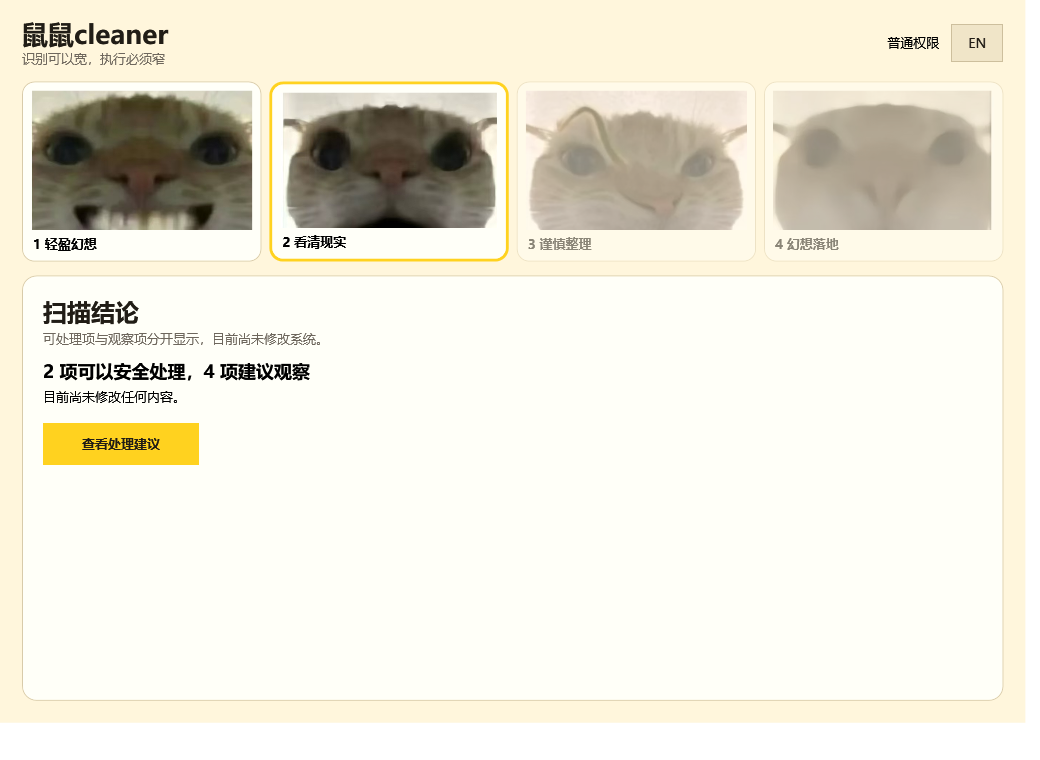
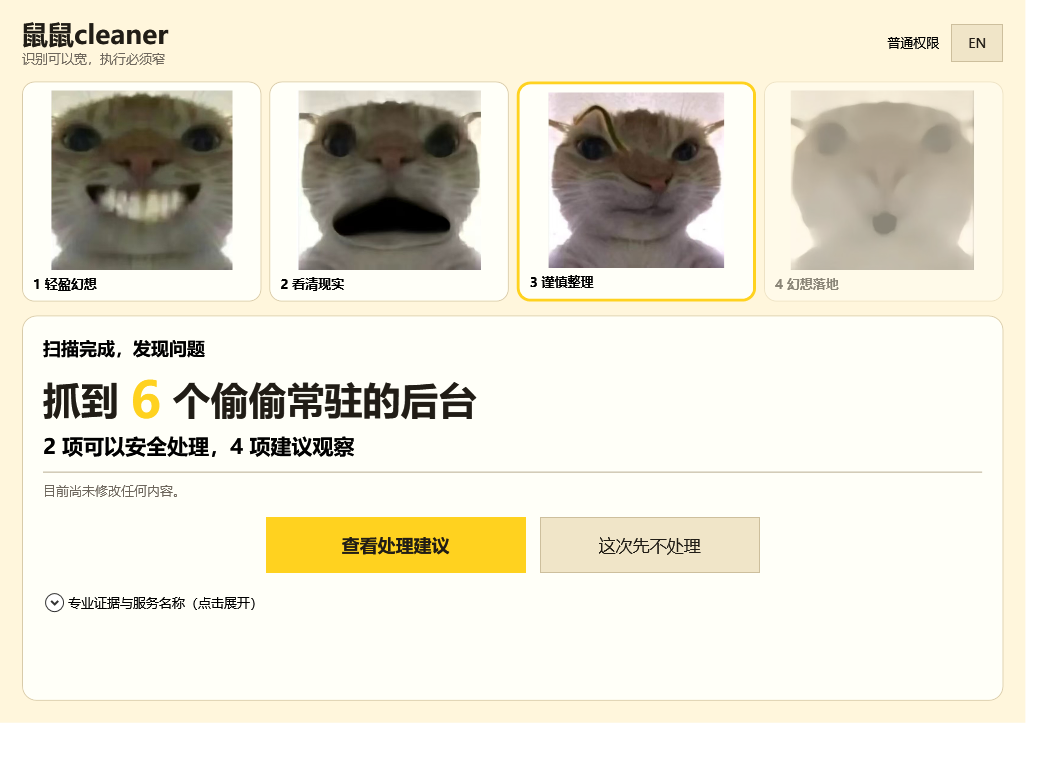
fix: restore complete fantasy results design

diff --git a/src/Gui/MainWindow.xaml b/src/Gui/MainWindow.xaml
@@ -32,7 +32,7 @@
     </Style>
   </Window.Resources>
   <Grid Margin="18">
-    <Grid.RowDefinitions><RowDefinition Height="Auto"/><RowDefinition Height="188"/><RowDefinition Height="*"/></Grid.RowDefinitions>
+    <Grid.RowDefinitions><RowDefinition Height="Auto"/><RowDefinition Height="228"/><RowDefinition Height="*"/></Grid.RowDefinitions>
     <Grid Grid.Row="0" Margin="4,0,4,10">
       <Grid.ColumnDefinitions><ColumnDefinition Width="*"/><ColumnDefinition Width="Auto"/></Grid.ColumnDefinitions>
       <StackPanel><TextBlock x:Name="TitleMain" Text="鼠鼠cleaner" FontSize="26" FontWeight="Bold" Foreground="{StaticResource Ink}"/>
@@ -42,21 +42,38 @@
         <Button x:Name="BtnLang" Content="EN" Style="{StaticResource SecondaryButton}" MinWidth="52" AutomationProperties.Name="切换语言"/>
       </StackPanel>
     </Grid>
-    <UniformGrid Grid.Row="1" Columns="4">
-      <Border x:Name="StageCard1" Style="{StaticResource StageCard}"><Grid><Grid.RowDefinitions><RowDefinition Height="*"/><RowDefinition Height="Auto"/></Grid.RowDefinitions><Image x:Name="ImgStage1" Stretch="UniformToFill" AutomationProperties.Name="轻盈幻想阶段插图"/><TextBlock x:Name="StageLabel1" Grid.Row="1" Text="1 轻盈幻想" FontWeight="Bold" Margin="2,6,2,0"/></Grid></Border>
-      <Border x:Name="StageCard2" Style="{StaticResource StageCard}"><Grid><Grid.RowDefinitions><RowDefinition Height="*"/><RowDefinition Height="Auto"/></Grid.RowDefinitions><Image x:Name="ImgStage2" Stretch="UniformToFill" AutomationProperties.Name="看清现实阶段插图"/><TextBlock x:Name="StageLabel2" Grid.Row="1" Text="2 看清现实" FontWeight="Bold" Margin="2,6,2,0"/></Grid></Border>
-      <Border x:Name="StageCard3" Style="{StaticResource StageCard}"><Grid><Grid.RowDefinitions><RowDefinition Height="*"/><RowDefinition Height="Auto"/></Grid.RowDefinitions><Image x:Name="ImgStage3" Stretch="UniformToFill" AutomationProperties.Name="谨慎整理阶段插图"/><TextBlock x:Name="StageLabel3" Grid.Row="1" Text="3 谨慎整理" FontWeight="Bold" Margin="2,6,2,0"/></Grid></Border>
-      <Border x:Name="StageCard4" Style="{StaticResource StageCard}"><Grid><Grid.RowDefinitions><RowDefinition Height="*"/><RowDefinition Height="Auto"/></Grid.RowDefinitions><Image x:Name="ImgStage4" Stretch="UniformToFill" AutomationProperties.Name="幻想落地阶段插图"/><TextBlock x:Name="StageLabel4" Grid.Row="1" Text="4 幻想落地" FontWeight="Bold" Margin="2,6,2,0"/></Grid></Border>
+    <UniformGrid x:Name="ComicRail" Grid.Row="1" Columns="4" MinHeight="220">
+      <Border x:Name="StageCard1" Style="{StaticResource StageCard}"><Grid><Grid.RowDefinitions><RowDefinition Height="*"/><RowDefinition Height="Auto"/></Grid.RowDefinitions><Image x:Name="ImgStage1" Stretch="Uniform" AutomationProperties.Name="轻盈幻想阶段插图"/><TextBlock x:Name="StageLabel1" Grid.Row="1" Text="1 轻盈幻想" FontWeight="Bold" Margin="2,6,2,0"/></Grid></Border>
+      <Border x:Name="StageCard2" Style="{StaticResource StageCard}"><Grid><Grid.RowDefinitions><RowDefinition Height="*"/><RowDefinition Height="Auto"/></Grid.RowDefinitions><Image x:Name="ImgStage2" Stretch="Uniform" AutomationProperties.Name="看清现实阶段插图"/><TextBlock x:Name="StageLabel2" Grid.Row="1" Text="2 看清现实" FontWeight="Bold" Margin="2,6,2,0"/></Grid></Border>
+      <Border x:Name="StageCard3" Style="{StaticResource StageCard}"><Grid><Grid.RowDefinitions><RowDefinition Height="*"/><RowDefinition Height="Auto"/></Grid.RowDefinitions><Image x:Name="ImgStage3" Stretch="Uniform" AutomationProperties.Name="谨慎整理阶段插图"/><TextBlock x:Name="StageLabel3" Grid.Row="1" Text="3 谨慎整理" FontWeight="Bold" Margin="2,6,2,0"/></Grid></Border>
+      <Border x:Name="StageCard4" Style="{StaticResource StageCard}"><Grid><Grid.RowDefinitions><RowDefinition Height="*"/><RowDefinition Height="Auto"/></Grid.RowDefinitions><Image x:Name="ImgStage4" Stretch="Uniform" AutomationProperties.Name="幻想落地阶段插图"/><TextBlock x:Name="StageLabel4" Grid.Row="1" Text="4 幻想落地" FontWeight="Bold" Margin="2,6,2,0"/></Grid></Border>
     </UniformGrid>
     <Border Grid.Row="2" Margin="4,10,4,4" Padding="20" Background="{StaticResource Paper}" CornerRadius="14" BorderBrush="#D8CBAA" BorderThickness="1">
       <Grid><Grid.RowDefinitions><RowDefinition Height="Auto"/><RowDefinition Height="*"/></Grid.RowDefinitions>
-        <StackPanel><TextBlock x:Name="StateTitle" FontSize="24" FontWeight="Bold" Foreground="{StaticResource Ink}"/>
+        <StackPanel x:Name="StateHeader"><TextBlock x:Name="StateTitle" FontSize="24" FontWeight="Bold" Foreground="{StaticResource Ink}"/>
           <TextBlock x:Name="StateSubtitle" Margin="0,4,0,12" Foreground="{StaticResource Muted}" TextWrapping="Wrap"/></StackPanel>
         <ScrollViewer x:Name="StateBodyScroll" Grid.Row="1" VerticalScrollBarVisibility="Auto" HorizontalScrollBarVisibility="Disabled">
         <Grid>
           <StackPanel x:Name="IdlePanel"><TextBlock x:Name="IdleBodyText" Text="扫描只读，不会修改系统。" Margin="0,0,0,16"/><DockPanel LastChildFill="False"><Button x:Name="BtnStartScan" Content="开始安全扫描" HorizontalAlignment="Left" Style="{StaticResource PrimaryButton}" IsDefault="True" AutomationProperties.Name="开始安全扫描"/></DockPanel></StackPanel>
           <StackPanel x:Name="ScanningPanel" Visibility="Collapsed"><ProgressBar x:Name="ScanProgress" Height="8" IsIndeterminate="True"/><TextBlock x:Name="ScanPhaseText" Text="正在检查系统项目" Margin="0,12,0,8"/><TextBox x:Name="ScanOutput" IsReadOnly="True" Height="160" TextWrapping="Wrap" VerticalScrollBarVisibility="Auto"/></StackPanel>
-          <StackPanel x:Name="ResultsPanel" Visibility="Collapsed"><TextBlock x:Name="ResultSummaryText" FontSize="18" FontWeight="Bold" AutomationProperties.Name="扫描结果摘要"/><TextBlock x:Name="ResultsNoMutationText" Text="目前尚未修改任何内容。" Margin="0,6,0,18"/><DockPanel LastChildFill="False"><Button x:Name="BtnOpenReview" Content="查看处理建议" HorizontalAlignment="Left" Style="{StaticResource PrimaryButton}" IsDefault="True" AutomationProperties.Name="查看处理建议"/></DockPanel></StackPanel>
+          <StackPanel x:Name="ResultsPanel" Visibility="Collapsed">
+            <TextBlock x:Name="ResultStatusText" Text="扫描完成，发现问题" FontSize="18" FontWeight="Bold"/>
+            <StackPanel Orientation="Horizontal" Margin="0,8,0,2">
+              <TextBlock x:Name="ResultHeadlinePrefix" Text="抓到 " FontSize="38" FontWeight="Black" Foreground="{StaticResource Ink}" VerticalAlignment="Center"/>
+              <TextBlock x:Name="ResultHeadlineCount" Text="0" FontSize="50" FontWeight="Black" Foreground="{StaticResource FantasyYellow}" VerticalAlignment="Center"/>
+              <TextBlock x:Name="ResultHeadlineSuffix" Text=" 个偷偷常驻的后台" FontSize="38" FontWeight="Black" Foreground="{StaticResource Ink}" VerticalAlignment="Center"/>
+            </StackPanel>
+            <TextBlock x:Name="ResultSummaryText" FontSize="21" FontWeight="SemiBold" AutomationProperties.Name="扫描结果摘要"/>
+            <Border Height="1" Background="#B8AD92" Margin="0,12,0,10"/>
+            <TextBlock x:Name="ResultsNoMutationText" Text="目前尚未修改任何内容。" Foreground="{StaticResource Muted}" TextWrapping="Wrap"/>
+            <StackPanel Orientation="Horizontal" HorizontalAlignment="Center" Margin="0,18,0,10">
+              <Button x:Name="BtnOpenReview" Content="查看处理建议" Style="{StaticResource PrimaryButton}" MinWidth="260" Height="56" FontSize="18" IsDefault="True" AutomationProperties.Name="查看处理建议"/>
+              <Button x:Name="BtnSkipReview" Content="这次先不处理" Style="{StaticResource SecondaryButton}" MinWidth="220" Height="56" FontSize="17" Margin="14,0,0,0" AutomationProperties.Name="这次先不处理"/>
+            </StackPanel>
+            <Expander x:Name="ResultsEvidenceExpander" Header="专业证据与服务名称（点击展开）" IsExpanded="False" Margin="0,8,0,0">
+              <TextBlock x:Name="ResultEvidenceText" FontFamily="Consolas" TextWrapping="Wrap" Margin="16,8,0,0"/>
+            </Expander>
+          </StackPanel>
           <Grid x:Name="ReviewPanel" Visibility="Collapsed"><Grid.RowDefinitions><RowDefinition Height="Auto"/><RowDefinition Height="*"/><RowDefinition Height="Auto"/></Grid.RowDefinitions>
             <StackPanel Orientation="Horizontal"><Button x:Name="BtnSelectAll" Content="选择全部安全项" Style="{StaticResource SecondaryButton}"/><Button x:Name="BtnClearAll" Content="清空选择" Margin="8,0,0,0" Style="{StaticResource SecondaryButton}"/></StackPanel>
             <ListBox x:Name="PendingList" Grid.Row="1" Margin="0,10" Background="Transparent" BorderThickness="0" KeyboardNavigation.TabNavigation="Continue"><ListBox.ItemTemplate><DataTemplate><Border BorderBrush="#E2D7BC" BorderThickness="0,0,0,1" Padding="6"><StackPanel><DockPanel><CheckBox IsChecked="{Binding IsChecked}" IsEnabled="{Binding CanExecute}" VerticalAlignment="Center"/><TextBlock Text="{Binding name_cn}" FontWeight="Bold" Margin="8,0"/><TextBlock Text="{Binding action_label}" Foreground="#6E675D"/></DockPanel><TextBlock Text="{Binding reason_cn}" TextWrapping="Wrap" Margin="24,4,0,0"/><Expander Header="{DynamicResource TechnicalDetailsText}" Margin="24,4,0,0"><TextBlock Text="{Binding matcher_detail}" FontFamily="Consolas" TextWrapping="Wrap"/></Expander></StackPanel></Border></DataTemplate></ListBox.ItemTemplate></ListBox>

diff --git a/design-qa.md b/design-qa.md
@@ -39,6 +39,21 @@
 - Automated evidence: 141 GUI tests passed after the fix.
 - No actionable P0, P1, or P2 visual finding remains.
 
+### Pass 3 - reopened from user review
+
+- P1, comic expressions: all four square mouse assets used `UniformToFill` inside wide slots, visibly cropping the top and bottom of each expression.
+- P1, results hierarchy: the selected target's oversized result headline, yellow count, dual actions, and evidence footer had been reduced to a generic small state card.
+- P2, journey emphasis: the results state still highlighted stage 2 and faded stage 3, while the selected target fully reveals the decision/cleanup panel and only subdues the final panel.
+- P2, duplicate heading: the generic `扫描结论` header repeated the new `扫描完成，发现问题` result status.
+
+### Pass 4 - passed
+
+- Fixes: all stage images now use `Uniform`; the comic rail is taller; results use a 38/50 px hero headline, yellow dynamic total, dual 56 px actions, and collapsed evidence footer; results highlight stage 3; the duplicate generic state header is hidden only for results.
+- Interaction: `这次先不处理` returns safely to idle and clears the in-memory reviewed authorization snapshot without deleting the read-only scan result.
+- Post-fix evidence: `artifacts/audit-current/04-reference-vs-final-results.png` and `artifacts/gui-states/{100,125,150}/results.png`.
+- Automated evidence: 146 GUI tests passed after the revision.
+- No actionable P0, P1, or P2 visual finding remains in the revised results state.
+
 ## Follow-up polish
 
 - P3: production screenshot fixtures could use fully localized sample item names in a future pass; current mixed-language sample rows are useful for deterministic width testing and do not affect the shipped runtime copy.
